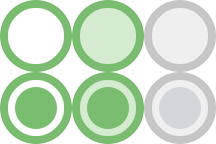
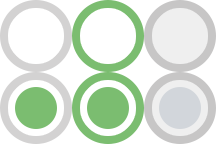
design - list variants - default, hover - colors, checkboxes - font size, default, hover - colors

Changed region(s): [[0.0, 0.0, 0.3333, 1.0], [0.3611, 0.0556, 0.6389, 0.4444], [0.3611, 0.5556, 0.6389, 0.9444]]

diff --git a/src/Shopsys/ShopBundle/Resources/styles/front/common/components/list/variants.less b/src/Shopsys/ShopBundle/Resources/styles/front/common/components/list/variants.less
@@ -3,9 +3,10 @@
 @list-variants-item-padding: 5px;
 @list-variants-item-gap-with-image: 8px;
 @list-variants-item-bg: @color-f;
-@list-variants-item-bg-hover: #d4ebd0;
+@list-variants-item-bg-hover: @color-f;
 @list-variants-item-bg-active: @color-green;
-@list-variants-item-border-color: @color-green;
+@list-variants-item-border-color: #d3d2d2;
+@list-variants-item-border-color-hover: @color-green;
 @list-variants-item-disabled-font-color: #cecdcd;
 
 @list-variants-item-with-image-width: 84px;
@@ -41,11 +42,13 @@
 
         &:hover {
             background-color: @list-variants-item-bg-hover;
+            border: 3px solid @list-variants-item-border-color-hover;
         }
 
         &.active {
             color: @color-f;
             background-color: @list-variants-item-bg-active;
+            border: 3px solid @list-variants-item-border-color-hover;
         }
 
         &.disabled {
@@ -56,6 +59,7 @@
 
         &__label {
             display: block;
+            padding: 0 5px;
             margin: 0 -@list-variants-item-padding;
             width: calc(~"100% + 2*@{list-variants-item-padding}");
             height: @list-variants-item-size - 4px;
@@ -137,6 +141,7 @@
 input[type=checkbox]:checked + .list-variants__item {
     color: @color-f;
     background-color: @list-variants-item-bg-active;
+    border: 3px solid @list-variants-item-border-color-hover;
 }
 
 input[type=checkbox]:checked + .list-variants__item-color {

diff --git a/src/Shopsys/ShopBundle/Resources/styles/front/common/core/form/custom-inputs.less b/src/Shopsys/ShopBundle/Resources/styles/front/common/core/form/custom-inputs.less
@@ -1,6 +1,6 @@
 @custom-inputs-margin-left: 30px;
 @custom-inputs-filter-margin-left: 25px;
-@custom-inputs-font-size: 18px;
+@custom-inputs-font-size: 16px;
 @custom-inputs-icon-size: 18px;
 @custom-inputs-link-color: @color-base;
 @custom-inputs-link-color-hover: @color-orange;
